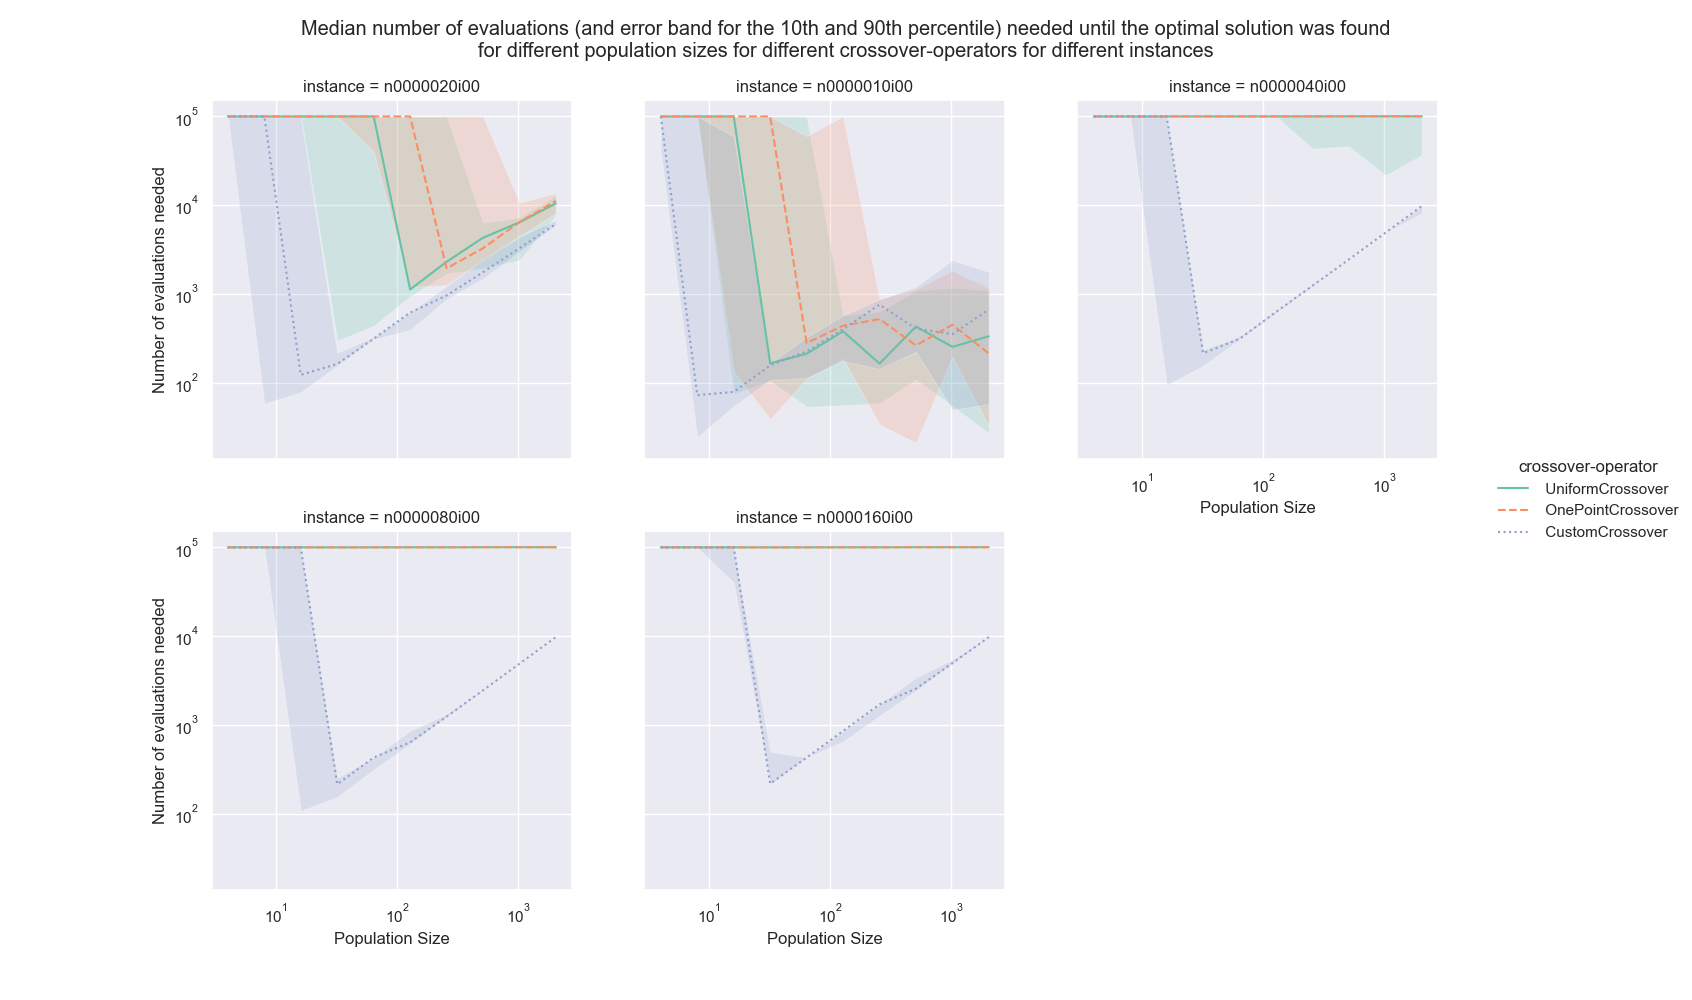
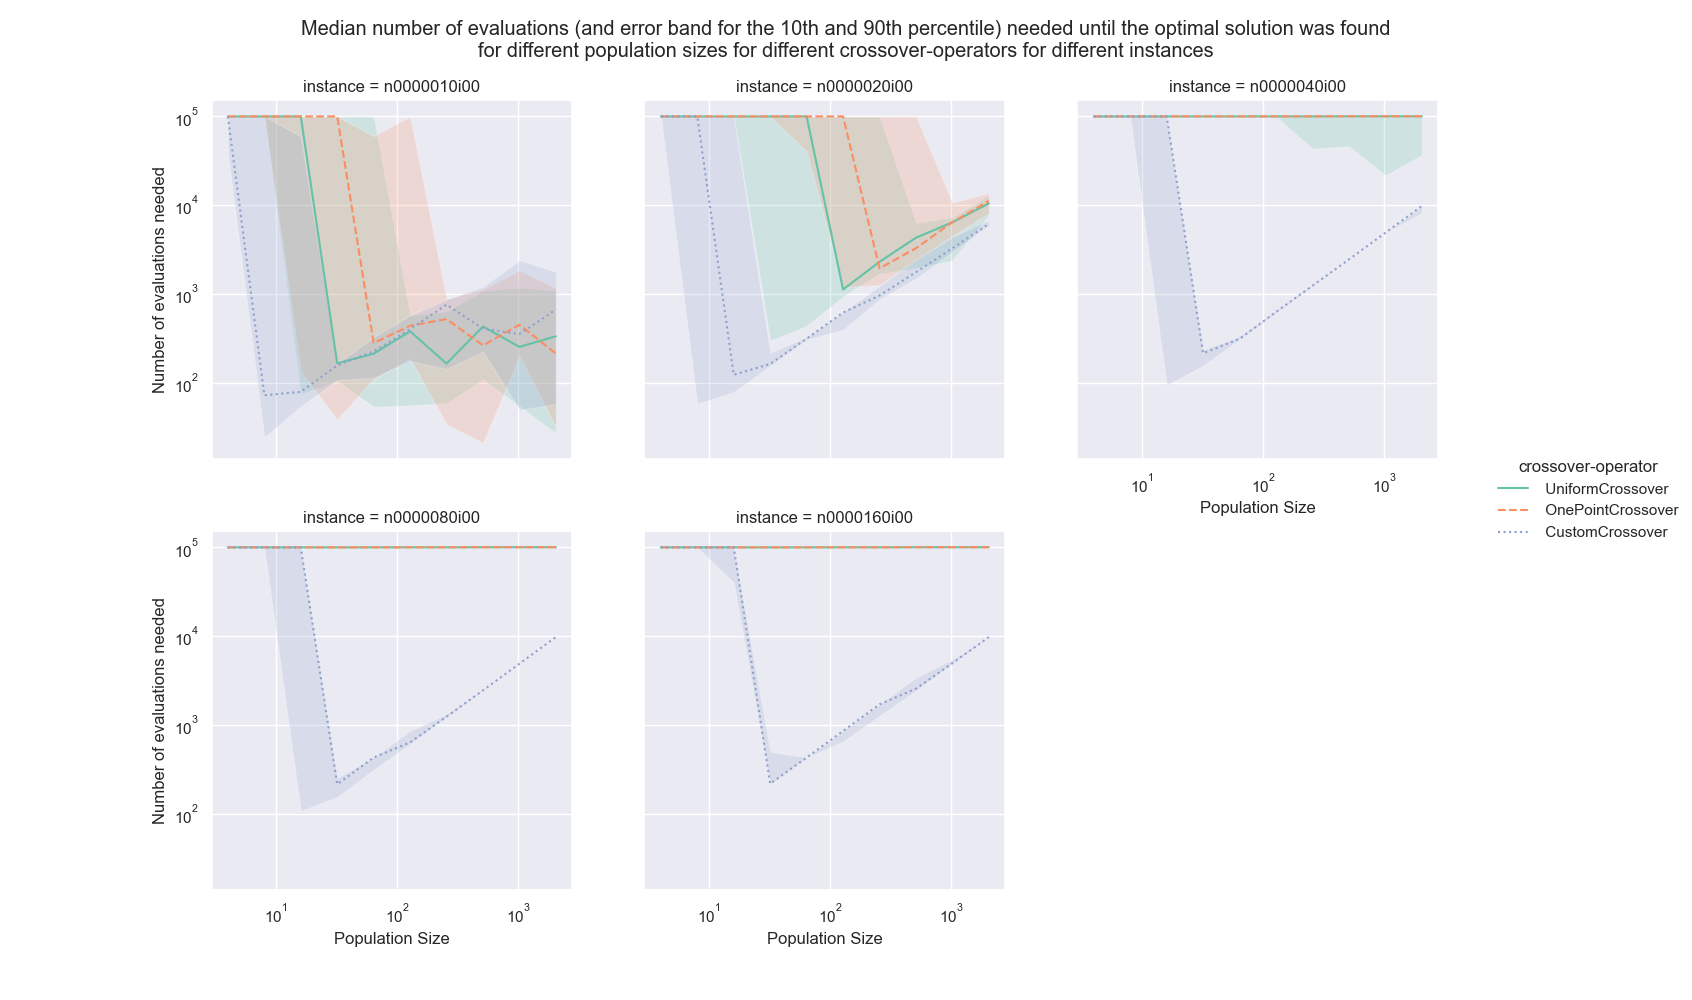
fixed instance order

Changed region(s): [[0.1537, 0.093, 0.3381, 0.434], [0.3995, 0.093, 0.5839, 0.434]]

diff --git a/PlotResults.py b/PlotResults.py
@@ -9,7 +9,7 @@ sns.set_palette(sns.color_palette("Set2"))
 
 def make_suc_perc_plot(df):
     res = sns.relplot(data= df, x='pop-size', y='succes-percentage',
-                col='instance',hue='crossover-operator',
+                col='instance', col_order = ['n0000010i00', 'n0000020i00', 'n0000040i00', 'n0000080i00', 'n0000160i00'],hue='crossover-operator',
                 style='crossover-operator',kind='line',col_wrap=3)
     res.set(xscale="log")
     res.fig.subplots_adjust(top=.9)
@@ -19,7 +19,7 @@ def make_suc_perc_plot(df):
     plt.savefig("suc-perc-plot.png")
 
 def make_eval_plot(df):
-    instances = df['instance'].unique()
+    instances = ['n0000010i00', 'n0000020i00', 'n0000040i00', 'n0000080i00', 'n0000160i00']
     crossovers = df['crossover-operator'].unique()
     fig, axs = plt.subplots(2, 3,figsize=(16.92,10),sharey=True)
     fig.subplots_adjust(right=.85,top=.9)
@@ -59,4 +59,5 @@ if __name__ == '__main__':
     df = pd.read_csv("results/output.txt", header=None)
     df.set_axis(col_names, axis=1, inplace=True)
     df = df[df['pop-size'].isin([4, 8, 16, 32, 64, 128, 256, 512, 1024, 2048])]
+    make_suc_perc_plot(df)
     make_eval_plot(df)
